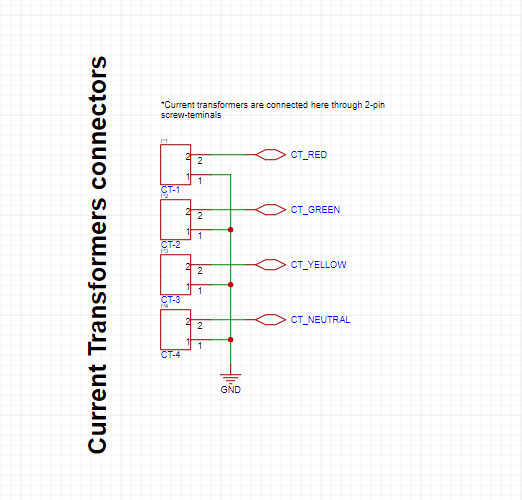
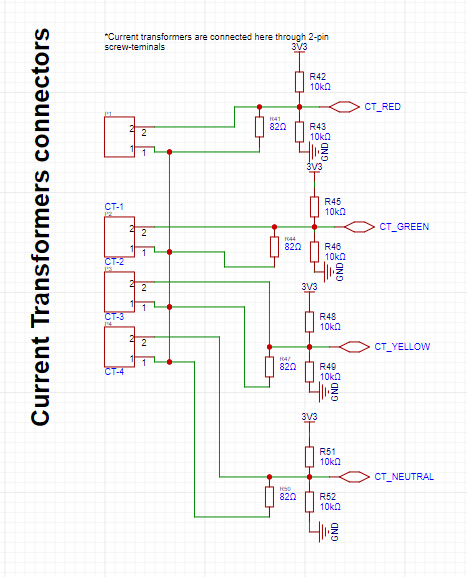
adds ADC line sampling

diff --git a/firmware/Core/Src/main.c b/firmware/Core/Src/main.c
@@ -56,10 +56,38 @@ static void MX_I2C2_Init(void);
 static void MX_ADC1_Init(void);
 /* USER CODE BEGIN PFP */
 
+uint32_t readADC_Current(uint32_t CHANNEL);
+uint32_t readADC_Voltage(uint32_t CHANNEL);
+
 /* USER CODE END PFP */
 
 /* Private user code ---------------------------------------------------------*/
 /* USER CODE BEGIN 0 */
+
+/**
+ * Read current from an ADC channel
+ */
+uint32_t readADC_Current(uint32_t CHANNEL) {
+
+	ADC_CH_Cfg.Channel = CHANNEL;
+	HAL_ADC_ConfigChannel(&hadc1, &ADC_CH_Cfg);
+
+	HAL_ADC_Start(&hadc1);
+	HAL_ADC_PollForConversion(&hadc1, HAL_MAX_DELAY);
+	return HAL_ADC_GetValue(&hadc1);
+}
+
+/**
+ * Read voltage from an ADC channel
+ */
+uint32_t readADC_Voltage(uint32_t CHANNEL) {
+	ADC_CH_Cfg.Channel = CHANNEL;
+	HAL_ADC_ConfigChannel(&hadc1, &ADC_CH_Cfg);
+
+	HAL_ADC_Start(&hadc1);
+	HAL_ADC_PollForConversion(&hadc1, HAL_MAX_DELAY);
+	return HAL_ADC_GetValue(&hadc1);
+}
 
 /* USER CODE END 0 */
 
@@ -94,7 +122,11 @@ int main(void)
   MX_GPIO_Init();
   MX_I2C2_Init();
   MX_ADC1_Init();
+
   /* USER CODE BEGIN 2 */
+
+  ADC_CH_Cfg.Rank = ADC_REGULAR_RANK_1;
+  ADC_CH_Cfg.samplingTime = ADC_SAMPLETIME_1CYCLE_5;
 
   // INITIALIZE OLED screen
   SSD1306_Init();
@@ -114,6 +146,15 @@ int main(void)
     /* USER CODE BEGIN 3 */
 
 	  // read current for each phase
+	  uint32_t red_curr = readADC_Current(ADC_CHANNEL_5);
+	  uint32_t green_curr = readADC_Current(ADC_CHANNEL_6);
+	  uint32_t yellow_curr = readADC_Current(ADC_CHANNEL_7);
+	  uint32_t neutral_curr = readADC_Current(ADC_CHANNEL_8);
+
+	  // read line voltage
+	  uint32_t red_voltage = readADC_Voltage(ADC_CHANNEL_2);
+	  uint32_t green_voltage = readADC_Voltage(ADC_CHANNEL_2);
+	  uint32_t yellow_voltage = readADC_Voltage(ADC_CHANNEL_2);
 
 	  // calculate the power
 
@@ -221,7 +262,7 @@ static void MX_ADC1_Init(void)
   hadc1.Init.ClockPrescaler = ADC_CLOCK_SYNC_PCLK_DIV2;
   hadc1.Init.Resolution = ADC_RESOLUTION_12B;
   hadc1.Init.ScanConvMode = DISABLE;
-  hadc1.Init.ContinuousConvMode = DISABLE;
+  hadc1.Init.ContinuousConvMode = ENABLE;
   hadc1.Init.DiscontinuousConvMode = DISABLE;
   hadc1.Init.ExternalTrigConvEdge = ADC_EXTERNALTRIGCONVEDGE_NONE;
   hadc1.Init.ExternalTrigConv = ADC_SOFTWARE_START;

diff --git a/firmware/Core/Src/stm32f4xx_hal_msp.c b/firmware/Core/Src/stm32f4xx_hal_msp.c
@@ -95,15 +95,26 @@ void HAL_ADC_MspInit(ADC_HandleTypeDef* hadc)
     __HAL_RCC_ADC1_CLK_ENABLE();
 
     __HAL_RCC_GPIOA_CLK_ENABLE();
+    __HAL_RCC_GPIOB_CLK_ENABLE();
     /**ADC1 GPIO Configuration
     PA2     ------> ADC1_IN2
     PA3     ------> ADC1_IN3
     PA4     ------> ADC1_IN4
+    PA5     ------> ADC1_IN5
+    PA6     ------> ADC1_IN6
+    PA7     ------> ADC1_IN7
+    PB0     ------> ADC1_IN8
     */
-    GPIO_InitStruct.Pin = RED_V_Pin|GREEN_V_Pin|YELLOW_V_Pin;
+    GPIO_InitStruct.Pin = RED_V_Pin|GREEN_V_Pin|YELLOW_V_Pin|CT_RED_Pin
+                          |CT_GREEN_Pin|CT_YELLOW_Pin;
     GPIO_InitStruct.Mode = GPIO_MODE_ANALOG;
     GPIO_InitStruct.Pull = GPIO_NOPULL;
     HAL_GPIO_Init(GPIOA, &GPIO_InitStruct);
+
+    GPIO_InitStruct.Pin = CT_NEUT_Pin;
+    GPIO_InitStruct.Mode = GPIO_MODE_ANALOG;
+    GPIO_InitStruct.Pull = GPIO_NOPULL;
+    HAL_GPIO_Init(CT_NEUT_GPIO_Port, &GPIO_InitStruct);
 
   /* USER CODE BEGIN ADC1_MspInit 1 */
 
@@ -133,8 +144,15 @@ void HAL_ADC_MspDeInit(ADC_HandleTypeDef* hadc)
     PA2     ------> ADC1_IN2
     PA3     ------> ADC1_IN3
     PA4     ------> ADC1_IN4
+    PA5     ------> ADC1_IN5
+    PA6     ------> ADC1_IN6
+    PA7     ------> ADC1_IN7
+    PB0     ------> ADC1_IN8
     */
-    HAL_GPIO_DeInit(GPIOA, RED_V_Pin|GREEN_V_Pin|YELLOW_V_Pin);
+    HAL_GPIO_DeInit(GPIOA, RED_V_Pin|GREEN_V_Pin|YELLOW_V_Pin|CT_RED_Pin
+                          |CT_GREEN_Pin|CT_YELLOW_Pin);
+
+    HAL_GPIO_DeInit(CT_NEUT_GPIO_Port, CT_NEUT_Pin);
 
   /* USER CODE BEGIN ADC1_MspDeInit 1 */
 

diff --git a/firmware/Core/Inc/main.h b/firmware/Core/Inc/main.h
@@ -63,6 +63,14 @@ void Error_Handler(void);
 #define GREEN_V_GPIO_Port GPIOA
 #define YELLOW_V_Pin GPIO_PIN_4
 #define YELLOW_V_GPIO_Port GPIOA
+#define CT_RED_Pin GPIO_PIN_5
+#define CT_RED_GPIO_Port GPIOA
+#define CT_GREEN_Pin GPIO_PIN_6
+#define CT_GREEN_GPIO_Port GPIOA
+#define CT_YELLOW_Pin GPIO_PIN_7
+#define CT_YELLOW_GPIO_Port GPIOA
+#define CT_NEUT_Pin GPIO_PIN_0
+#define CT_NEUT_GPIO_Port GPIOB
 #define OLED_SCL_Pin GPIO_PIN_10
 #define OLED_SCL_GPIO_Port GPIOB
 #define OLED_SDA_Pin GPIO_PIN_3

diff --git a/README.md b/README.md
@@ -31,12 +31,19 @@ The current transformer used here is the CT1275-A1-RC. It has a turns ratio of 1
 
 The output current is transformed to voltage using a burden resistor, then this voltage is sampled and measured by the ADC.  
 
+Calculations were as follows:
+To get the burder resistor, I used the following formula: 
+
+```
+Rburden = Peak voltage / CT output = 3.3V/40mA = 82.5 mOhm standard = 82 Ohm
+```
+
+We need to add a bias voltage to shift this up to 1.65V mid defore feeding to STM32 ADC.
 
 Below shows the circuit for this purpose:
 [line-voltage](./images/phase_current_measurement.png)
 
 The current transformers are conneted on the phase lines , where the phase line passes through the current transformer.
-
 
 Here's the link to the project :
 https://u.easyeda.com/join?type=project&key=e6ed463bb0bcfe54d6addecaed85d314&inviter=dd1664aa981942349eac2c5b2c113172
@@ -74,6 +81,21 @@ These values were then used to design the circuit below:
 STM32 is a 3.3V 12-bit unipolar ADC. Using this the current and voltage measurement circuits above had to be within this range. So DC biasing method using a potential divider is provided. The circuit is shown below.  
 This circuit sets the voltage midpoint to around 1.65V when the current or voltage sensor is not measuring any value. 
 
+### Power calculation 
+3-phase power is calculated as follows: 
+Assuming balanced s-phase system, the formula is:
+```
+Power = sqrt(3) * Line voltage * line current * power factor
+```
+
 ### OLED Display 
 I used the SSD1306 display for this task. This display uses 12C communication with the MCU. To carry out the connection, I initialized the I2C channel 2 on the STM and linked it with the display.
 I2C for the screen is used in fast mode 
+
+### Firmware 
+The firmware follows the following procedure for this meter:
+#### 1. Initialize all hardware 
+#### 2. Sample the phase voltage 
+#### 3. Sample the phase current
+#### 4. Calculate the AC power 
+#### 5. Display these values on the screen 
